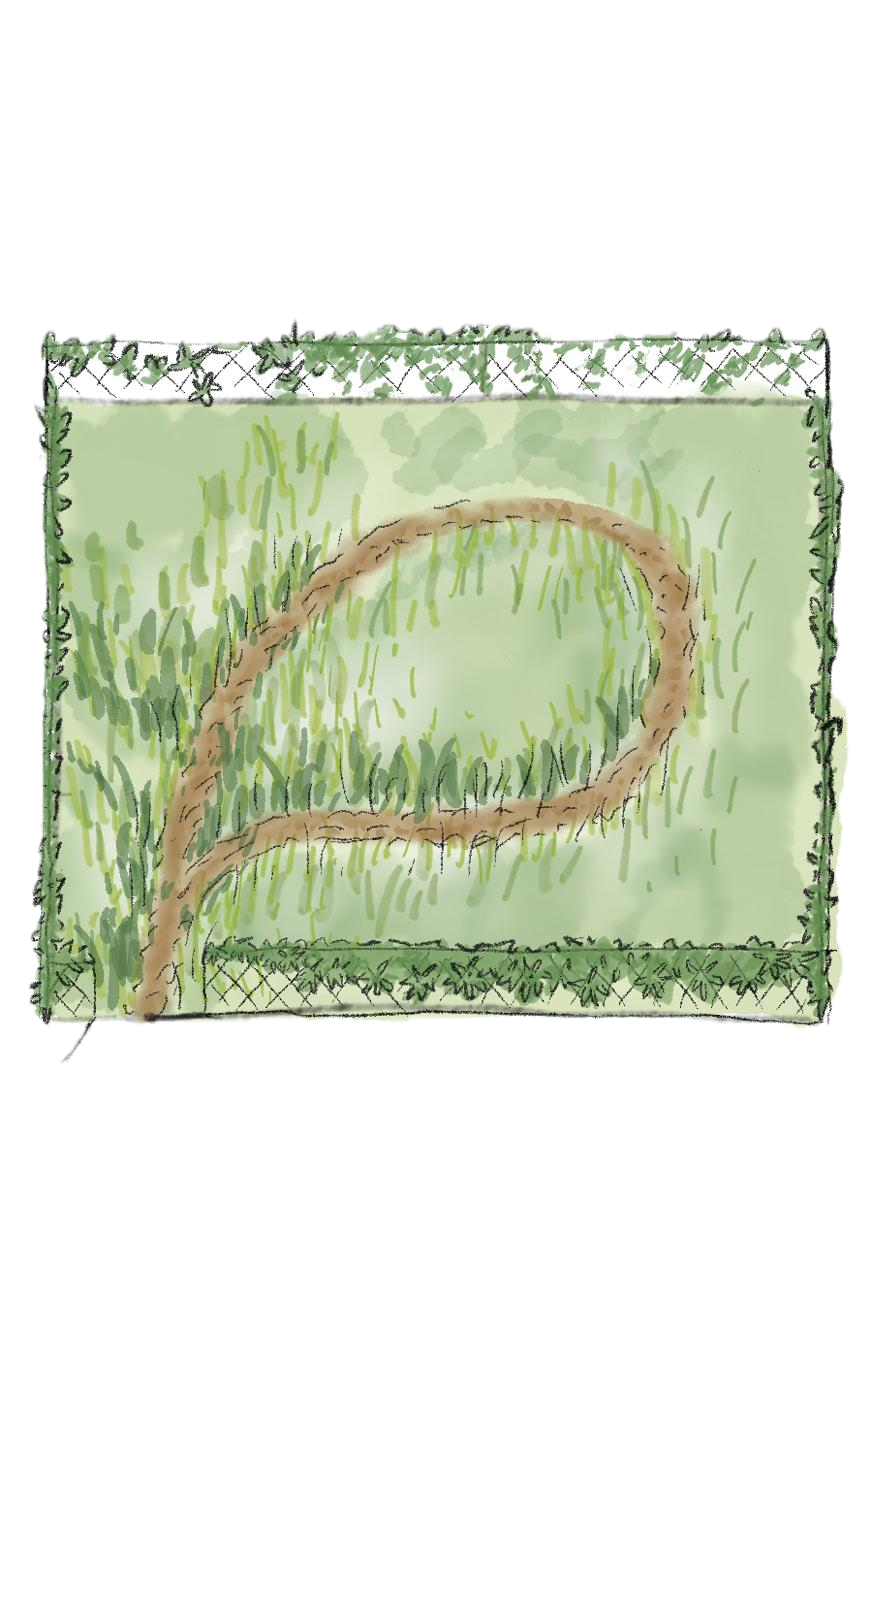
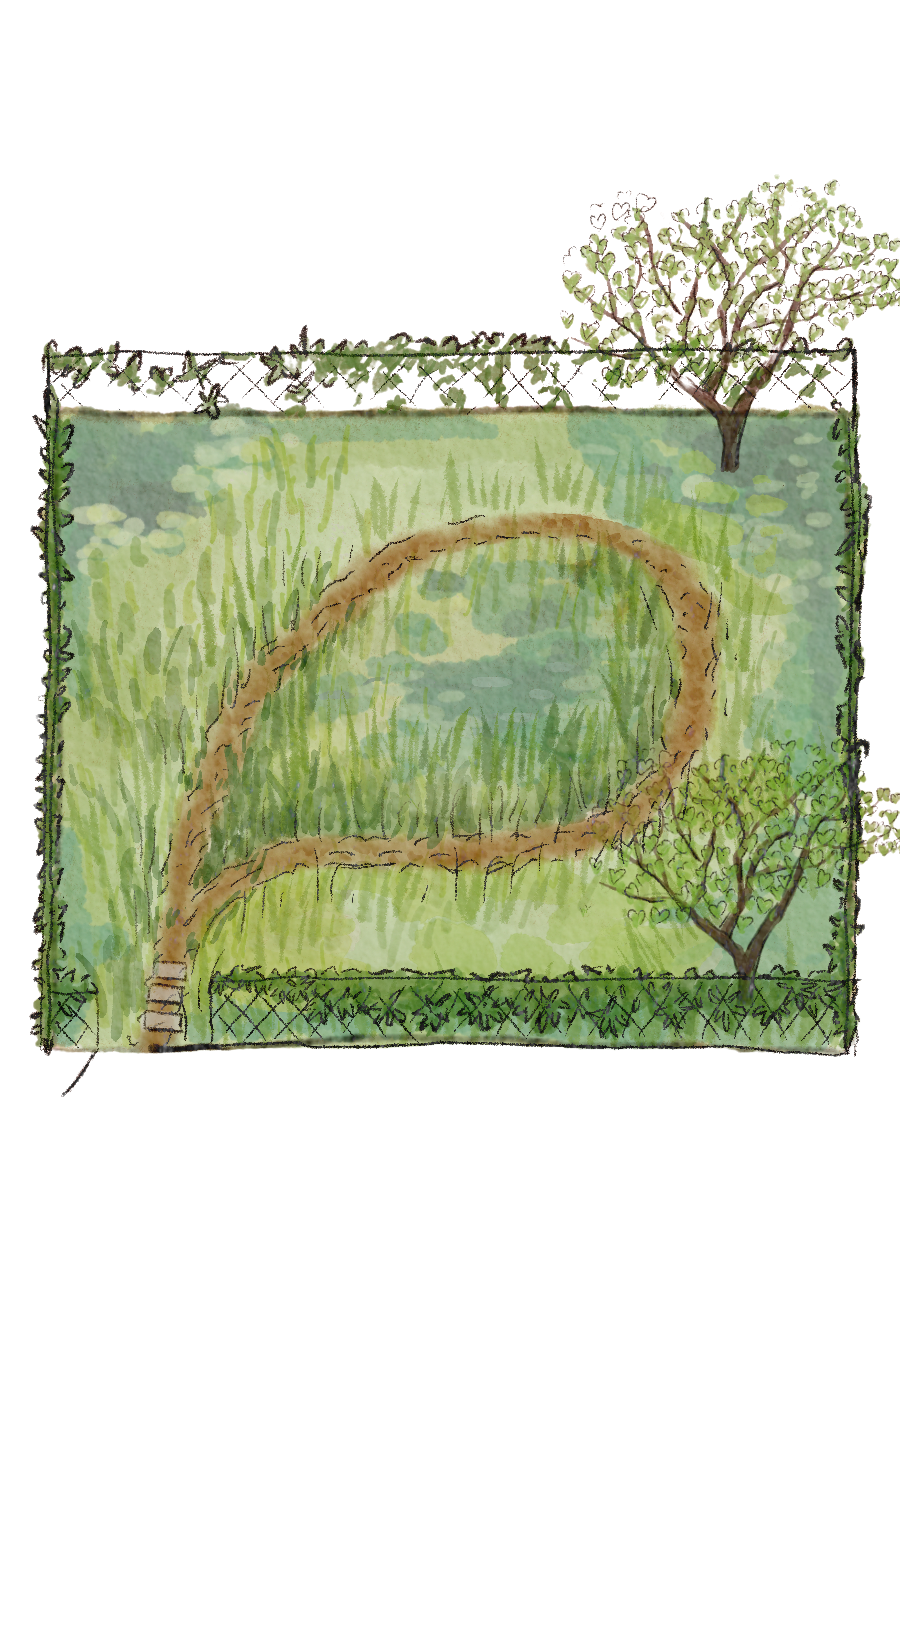
Add rest of assets

diff --git a/src/utils/plants.ts b/src/utils/plants.ts
@@ -1,5 +1,7 @@
 import primrose from "../assets/primrose.png";
 import redbud from "../assets/redbud.png";
+import americanElm from "../assets/american-elm.png";
+import easternRedCedar from "../assets/eastern-red-cedar.png";
 
 export const plants = [
   {
@@ -14,10 +16,26 @@ export const plants = [
   {
     id: "eastern-redbud",
     imgSrc: redbud.src,
-    imgWidth: 800,
+    imgWidth: 480,
     class:
-      "absolute top-[20%] right-[-2.5%] scale-70 [--glow-inner:15px] [--glow-opacity:0.3] [--glow-size:30px]",
+      "absolute top-[28%] left-[20%] [--glow-inner:15px] [--glow-opacity:0.3] [--glow-size:30px] scale-70",
     modalWidth: 800,
+    modalClass: "relative",
+  },
+  {
+    id: "american-elm",
+    imgSrc: americanElm.src,
+    imgWidth: 150,
+    class: "absolute top-[18%] left-[-1%]",
+    modalWidth: 300,
+    modalClass: "relative",
+  },
+  {
+    id: "eastern-red-cedar",
+    imgSrc: easternRedCedar.src,
+    imgWidth: 120,
+    class: "absolute top-[26%] left-[-1%]",
+    modalWidth: 250,
     modalClass: "relative",
   },
 ];
